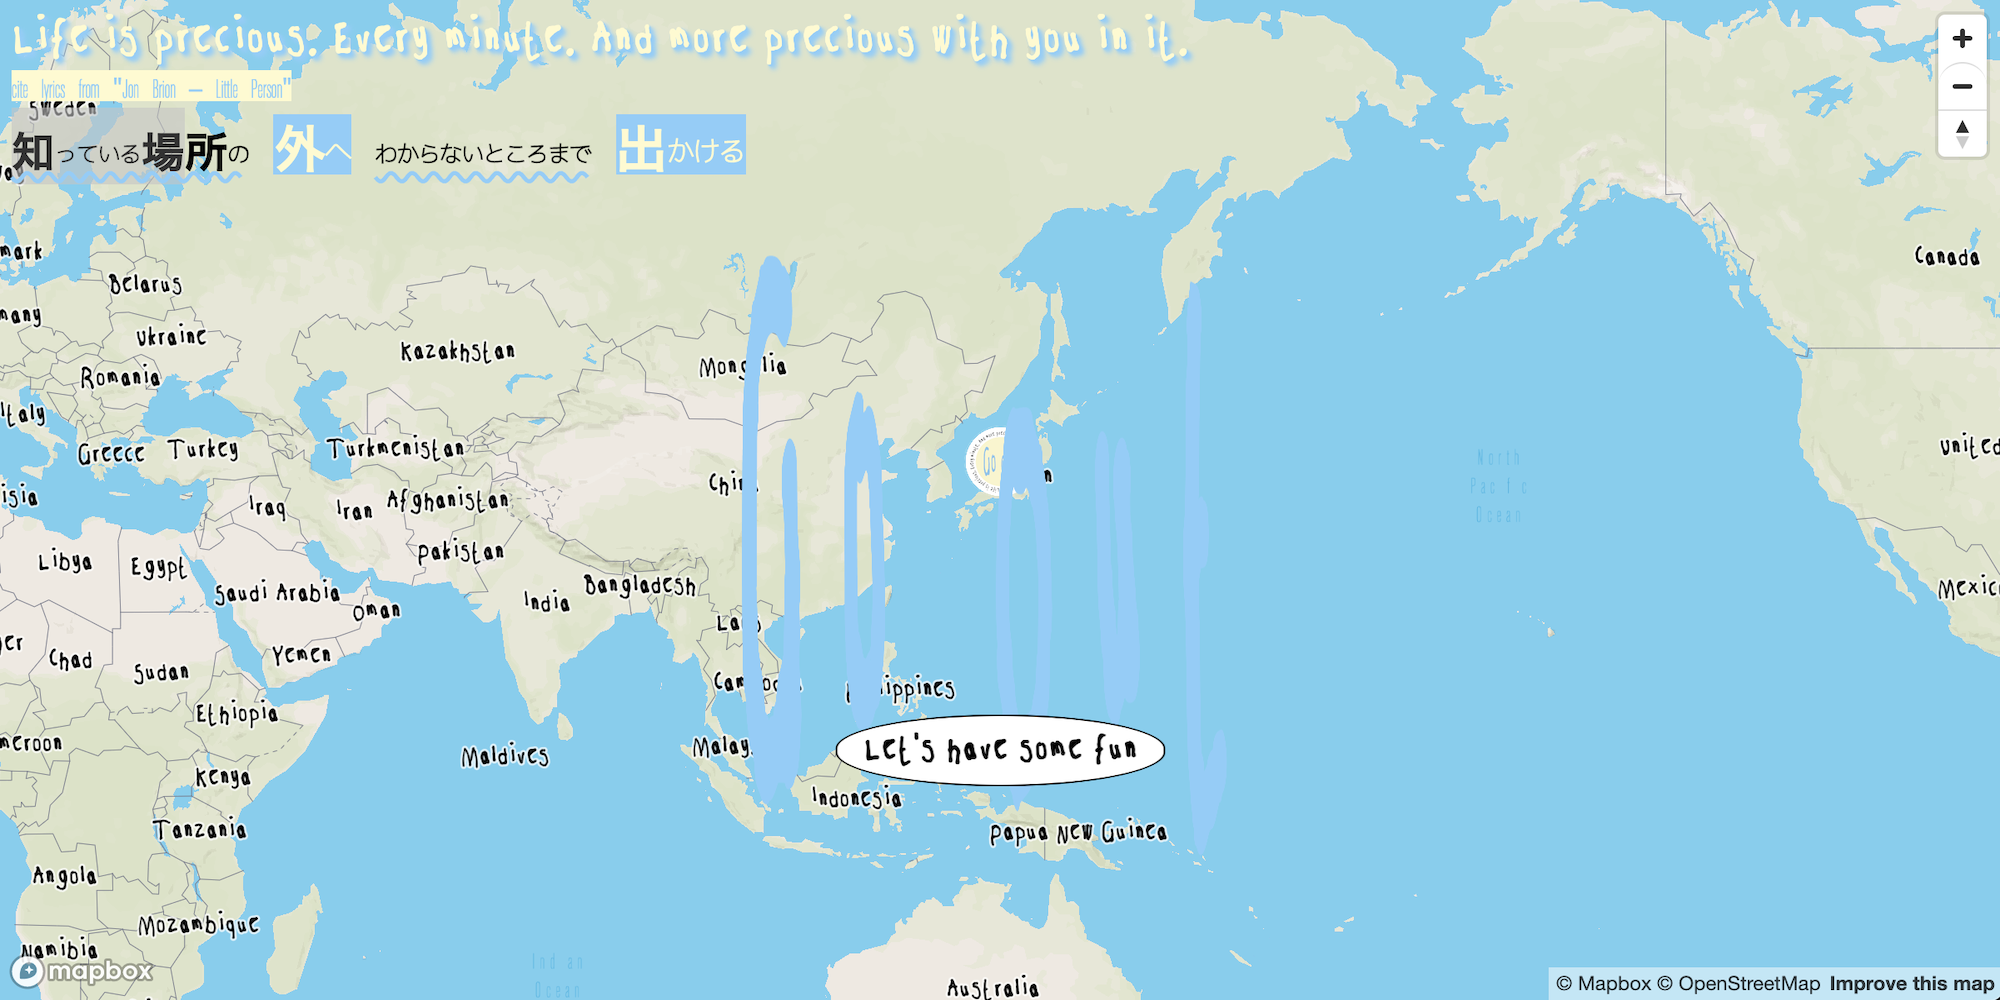
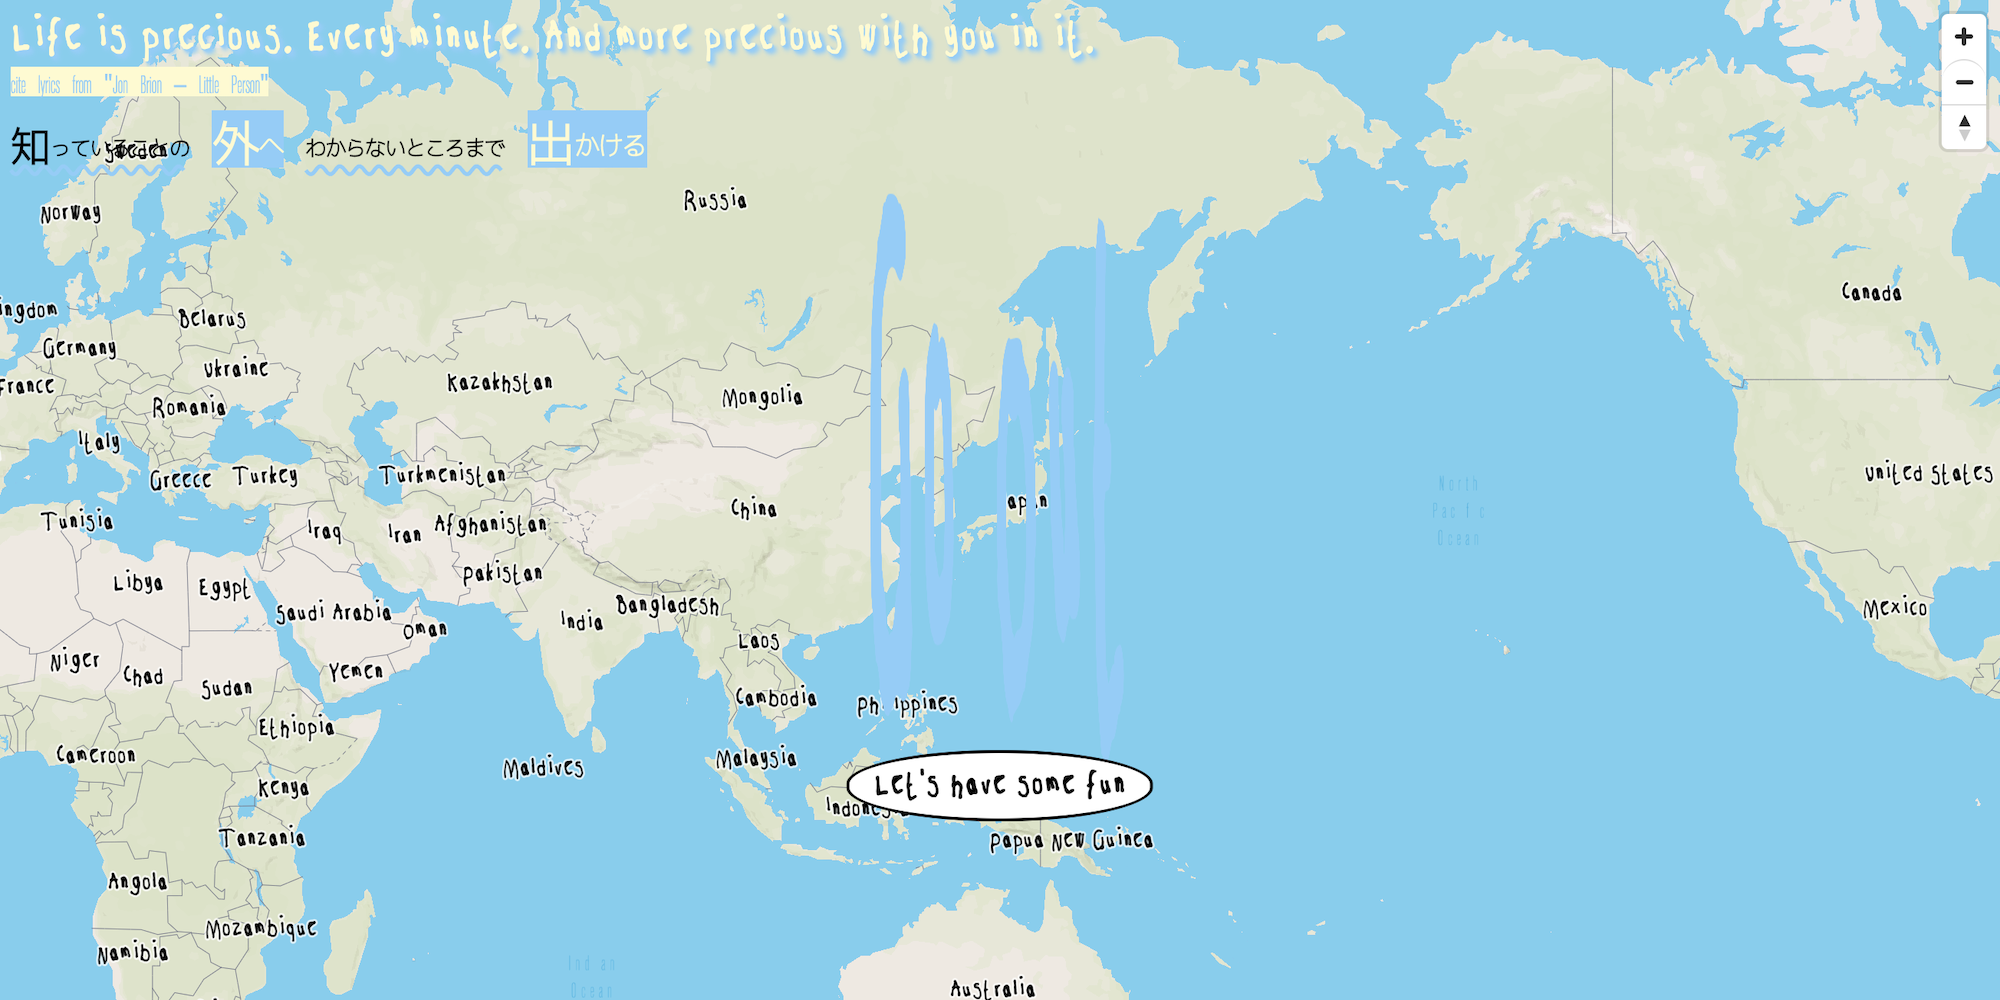
map

diff --git a/index.php b/index.php
@@ -33,7 +33,7 @@
     <address>cite lyrics from "Jon Brion – Little Person"</address>
     <section>
       <h3>
-        <span>知っている場所の</span>
+        <span>知っていることの</span>
         <b>外へ</b>
         <span>わからないところまで</span>
         <b>出かける</b>
@@ -86,8 +86,6 @@
 
   map.addControl(new mapboxgl.NavigationControl());
   </script>
-  <script src="js/markers.v2.js"></script>
-  <script src="js/polygon.v3.js"></script>
   <script src="js/readyState.v2.js"></script>
   <script src="js/submit.js"></script>
   <script src="/js/log.js"></script>
